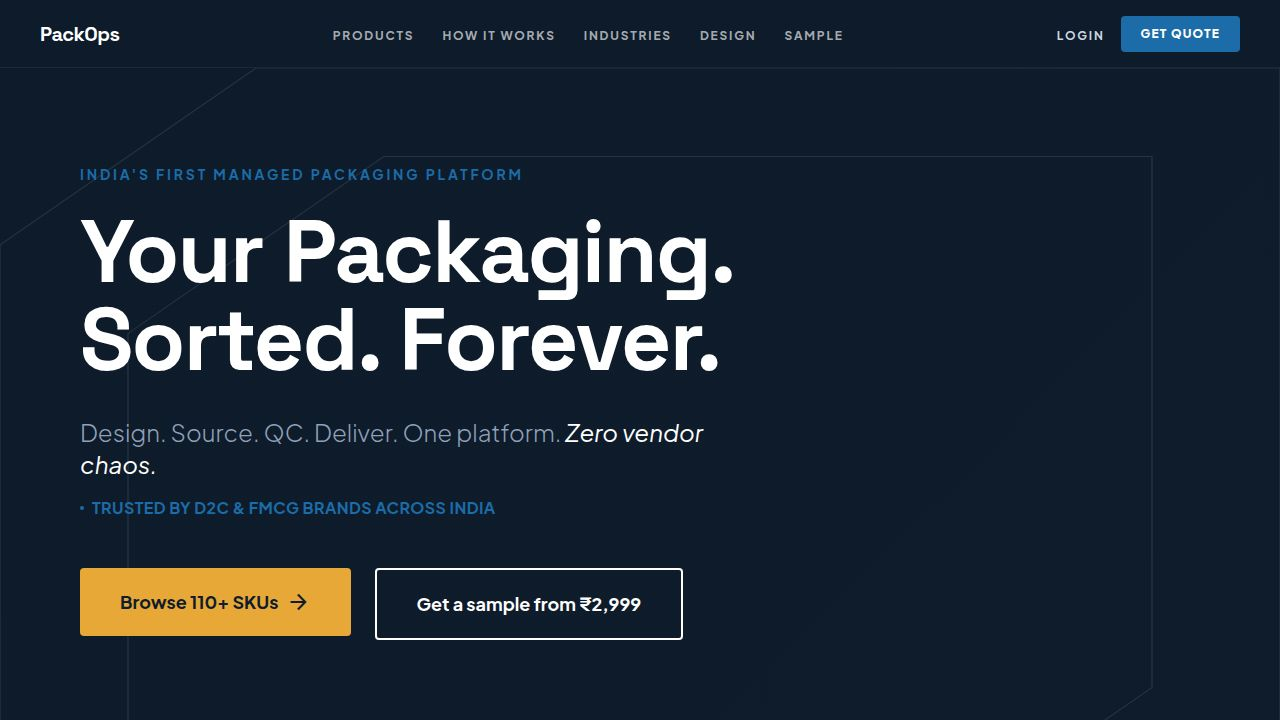
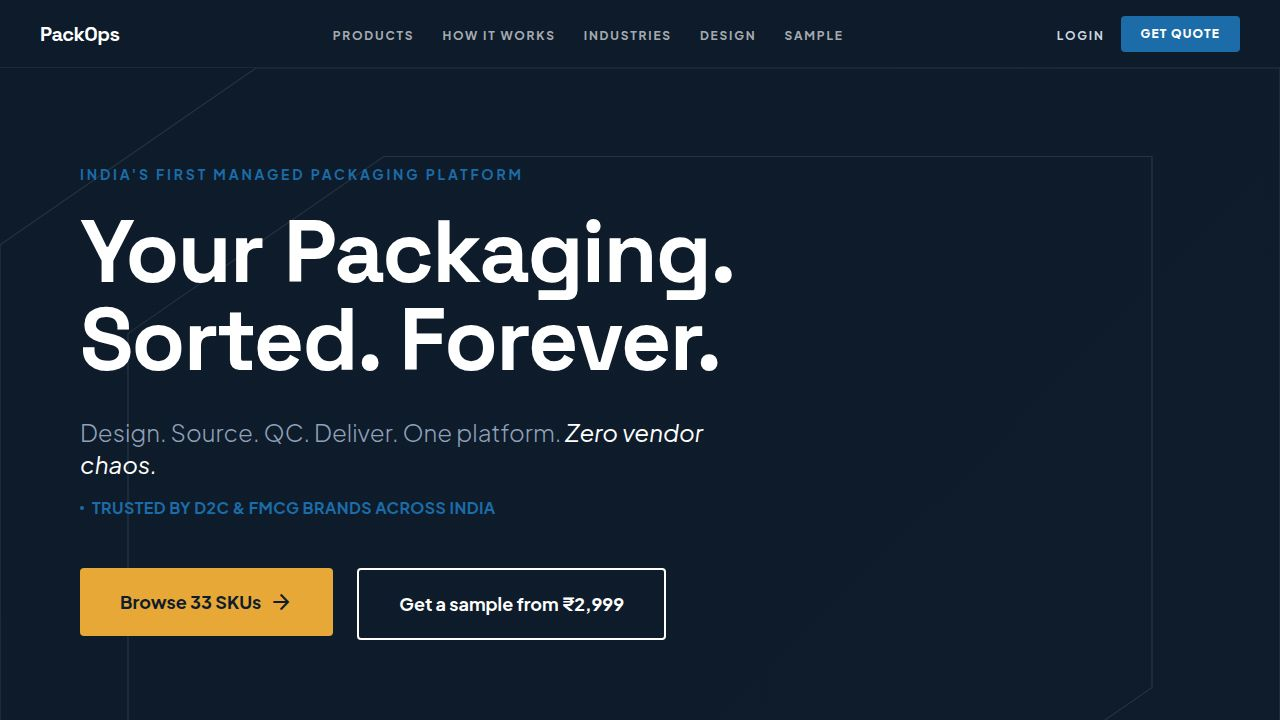
Update home page with new industry images and redesign SmartStock section
Replaces placeholder images with local assets and revamps the SmartStock section's UI in `home.tsx` and `images.ts`.

Replit-Commit-Author: Agent
Replit-Commit-Session-Id: 9320c652-0aac-4a3b-9982-cb920823c318
Replit-Commit-Checkpoint-Type: full_checkpoint
Replit-Commit-Event-Id: 7fab86b4-2b28-40df-9dc7-163f7f1f3590
Replit-Commit-Screenshot-Url: https://storage.googleapis.com/screenshot-production-us-central1/300a5f71-6af5-4265-8b38-114f63a45436/9320c652-0aac-4a3b-9982-cb920823c318/XKbyELZ
Replit-Helium-Checkpoint-Created: true

Changed region(s): [[0.125, 0.7639, 0.2812, 0.8861], [0.3125, 0.825, 0.5, 0.8556]]

diff --git a/artifacts/packwerk/src/pages/home.tsx b/artifacts/packwerk/src/pages/home.tsx
@@ -304,25 +304,6 @@ export default function Home() {
               </Link>
             ))}
           </div>
-          <div className="grid grid-cols-1 md:grid-cols-2 gap-8">
-            {[
-              { title: "Coffee Brand Bundle", tags: ["Stand-up Pouch", "Printed Roll Label", "Mailer Box"], icon: "inventory_2" },
-              { title: "Skincare Essentials", tags: ["Airless Pump Bottle", "Cosmetic Jar", "Folding Carton"], icon: "sanitizer" },
-            ].map(kit => (
-              <div key={kit.title} className="p-8 rounded border border-white/5 flex flex-col md:flex-row items-center gap-8" style={{ background: "#0F1C2C" }}>
-                <div className="flex-1">
-                  <span className="text-xs font-bold tracking-widest uppercase mb-2 block" style={{ color: "#E8A838" }}>Starter Kit</span>
-                  <h3 className="text-white text-2xl font-bold mb-4">{kit.title}</h3>
-                  <div className="flex flex-wrap gap-3">
-                    {kit.tags.map(tag => <span key={tag} className="px-3 py-1 text-xs rounded border text-white" style={{ background: "rgba(255,255,255,0.1)", borderColor: "rgba(255,255,255,0.2)" }}>{tag}</span>)}
-                  </div>
-                </div>
-                <div className="w-full md:w-1/3 aspect-square rounded flex items-center justify-center" style={{ background: "rgba(255,255,255,0.05)" }}>
-                  <MS icon={kit.icon} className="text-6xl" style={{ color: "rgba(255,255,255,0.2)" }} />
-                </div>
-              </div>
-            ))}
-          </div>
         </div>
       </section>
 
@@ -549,46 +530,38 @@ export default function Home() {
       </section>
 
       {/* ── SMARTSTOCK ───────────────────────────── */}
-      <section className="grid grid-cols-1 lg:grid-cols-2">
-        <div className="text-white px-8 md:px-20 py-24 flex flex-col justify-center" style={{ background: "#0F1C2C" }}>
-          <span className="font-bold tracking-widest mb-6 uppercase text-sm" style={{ color: "#E8A838" }}>SMARTSTOCK™ AI INVENTORY</span>
-          <h2 className="clash-display text-4xl mb-8">Never run out of boxes again.</h2>
-          <p className="text-slate-400 text-lg mb-10 leading-relaxed">
-            Our AI analyzes your sales velocity and lead times across 500+ factory partners to automatically trigger replenishment.
-            <br /><br />We hold up to <span className="text-white font-bold">4 weeks of buffer stock</span> in regional nodes so you never face a line-stop.
-          </p>
-          <ul className="space-y-4 mb-12">
-            {["Automated JIT Replenishment", "Regional Warehousing in 12 Cities", "SKU Consolidation Reporting"].map(item => (
-              <li key={item} className="flex items-center gap-3">
-                <MS icon="check_circle" style={{ color: "#1B6CA8" }} /> {item}
-              </li>
-            ))}
-          </ul>
-          <Link href="/quote">
-            <button className="text-white w-fit px-8 py-4 rounded font-bold hover:opacity-90 transition-all" style={{ background: "#1B6CA8" }}>See SmartStock in Action</button>
-          </Link>
-        </div>
-        <div className="relative p-12 flex items-center justify-center" style={{ background: "#F2F3F6" }}>
-          <div className="relative z-10 w-full max-w-lg bg-white p-8 rounded shadow-2xl border border-slate-200/30">
-            <div className="flex justify-between items-center mb-8">
-              <h4 className="font-bold">Live Inventory Map</h4>
-              <span className="flex items-center gap-2 text-xs font-bold uppercase" style={{ color: "#1B6CA8" }}>
-                <span className="w-2 h-2 rounded-full animate-ping inline-block" style={{ background: "#1B6CA8" }} />Live Updates
-              </span>
-            </div>
-            <div className="space-y-4">
-              {[
-                { node: "Delhi NCR Node", cap: "92% Capacity", ok: true },
-                { node: "Mumbai West Node", cap: "87% Capacity", ok: true },
-                { node: "Bengaluru Node", cap: "42% (Replenishing)", ok: false },
-                { node: "Chennai Port Node", cap: "98% Capacity", ok: true },
-              ].map(row => (
-                <div key={row.node} className="flex items-center justify-between p-4 rounded" style={{ background: "#EDEEF1" }}>
-                  <span className="font-bold text-sm">{row.node}</span>
-                  <span style={{ ...mono, fontSize: "0.85rem", color: row.ok ? "#1B6CA8" : "#ba1a1a" }}>{row.cap}</span>
-                </div>
+      <section className="relative overflow-hidden" style={{ background: "#0F1C2C" }}>
+        <div className="grid grid-cols-1 lg:grid-cols-2 min-h-[640px]">
+          {/* Left: content */}
+          <div className="relative z-10 text-white px-8 md:px-20 py-24 flex flex-col justify-center">
+            <span className="font-bold tracking-widest mb-6 uppercase text-sm" style={{ color: "#E8A838" }}>SMARTSTOCK™ AI INVENTORY</span>
+            <h2 className="clash-display text-4xl mb-8">Never run out of boxes again.</h2>
+            <p className="text-slate-400 text-lg mb-10 leading-relaxed">
+              Our AI analyzes your sales velocity and lead times across 500+ factory partners to automatically trigger replenishment.
+              <br /><br />We hold up to <span className="text-white font-bold">4 weeks of buffer stock</span> in regional nodes so you never face a line-stop.
+            </p>
+            <ul className="space-y-4 mb-12">
+              {["Automated JIT Replenishment", "Regional Warehousing in 12 Cities", "SKU Consolidation Reporting"].map(item => (
+                <li key={item} className="flex items-center gap-3">
+                  <MS icon="check_circle" style={{ color: "#1B6CA8" }} /> {item}
+                </li>
               ))}
-            </div>
+            </ul>
+            <Link href="/quote">
+              <button className="text-white w-fit px-8 py-4 rounded font-bold hover:opacity-90 transition-all" style={{ background: "#1B6CA8" }}>See SmartStock in Action</button>
+            </Link>
+          </div>
+          {/* Right: India logistics image — full bleed with left-edge fade */}
+          <div className="relative hidden lg:block">
+            <img
+              src="/smartstock.jpg"
+              alt="SmartStock — India logistics network"
+              className="absolute inset-0 w-full h-full object-cover object-center"
+            />
+            {/* Gradient overlay: fades left edge into dark bg, subtle bottom darkening */}
+            <div className="absolute inset-0" style={{
+              background: "linear-gradient(to right, #0F1C2C 0%, rgba(15,28,44,0.55) 35%, rgba(15,28,44,0.1) 65%, transparent 100%)"
+            }} />
           </div>
         </div>
       </section>

diff --git a/artifacts/packwerk/src/lib/images.ts b/artifacts/packwerk/src/lib/images.ts
@@ -1,17 +1,14 @@
-// Curated Unsplash image URLs for packaging categories & industries
-// Format: https://images.unsplash.com/photo-{id}?w={w}&h={h}&fit=crop&q=80
-
 export const INDUSTRY_IMAGES: Record<string, string> = {
-  food: "https://images.unsplash.com/photo-1556909114-f6e7ad7d3136?w=800&h=500&fit=crop&q=80",
-  beverage: "https://images.unsplash.com/photo-1507003211169-0a1dd7228f2d?w=800&h=500&fit=crop&q=80",
-  pharma: "https://images.unsplash.com/photo-1584308666744-24d5c474f2ae?w=800&h=500&fit=crop&q=80",
-  cosmetics: "https://images.unsplash.com/photo-1596462502278-27bfdc403348?w=800&h=500&fit=crop&q=80",
-  ecommerce: "https://images.unsplash.com/photo-1557821552-17105176677c?w=800&h=500&fit=crop&q=80",
-  fmcg: "https://images.unsplash.com/photo-1542838132-92c53300491e?w=800&h=500&fit=crop&q=80",
-  industrial: "https://images.unsplash.com/photo-1504328345606-18bbc8c9d7d1?w=800&h=500&fit=crop&q=80",
-  agriculture: "https://images.unsplash.com/photo-1500937386664-56d1dfef3854?w=800&h=500&fit=crop&q=80",
-  electronics: "https://images.unsplash.com/photo-1518770660439-4636190af475?w=800&h=500&fit=crop&q=80",
-  homecare: "https://images.unsplash.com/photo-1563453392212-326f5e854473?w=800&h=500&fit=crop&q=80",
+  food: "/industries/food.jpg",
+  beverage: "/industries/food.jpg",
+  pharma: "/industries/pharma.jpg",
+  cosmetics: "/industries/beauty.jpg",
+  ecommerce: "/industries/ecommerce.jpg",
+  fmcg: "/industries/fmcg.jpg",
+  industrial: "/industries/industrial.jpg",
+  agriculture: "/industries/agri.jpg",
+  electronics: "/industries/electronics.jpg",
+  homecare: "/industries/fmcg.jpg",
 };
 
 // Category fallbacks use confirmed-working industry photo IDs